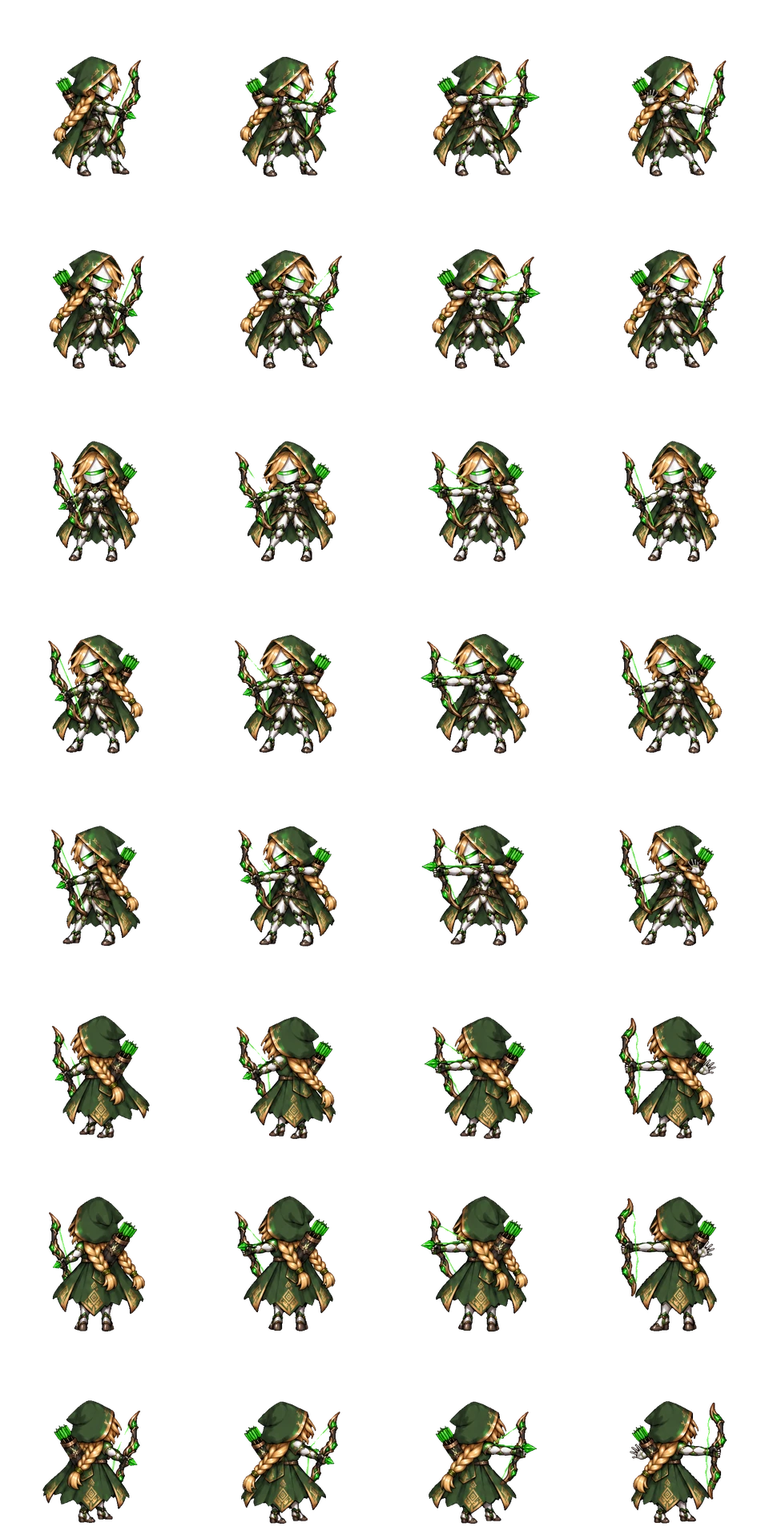
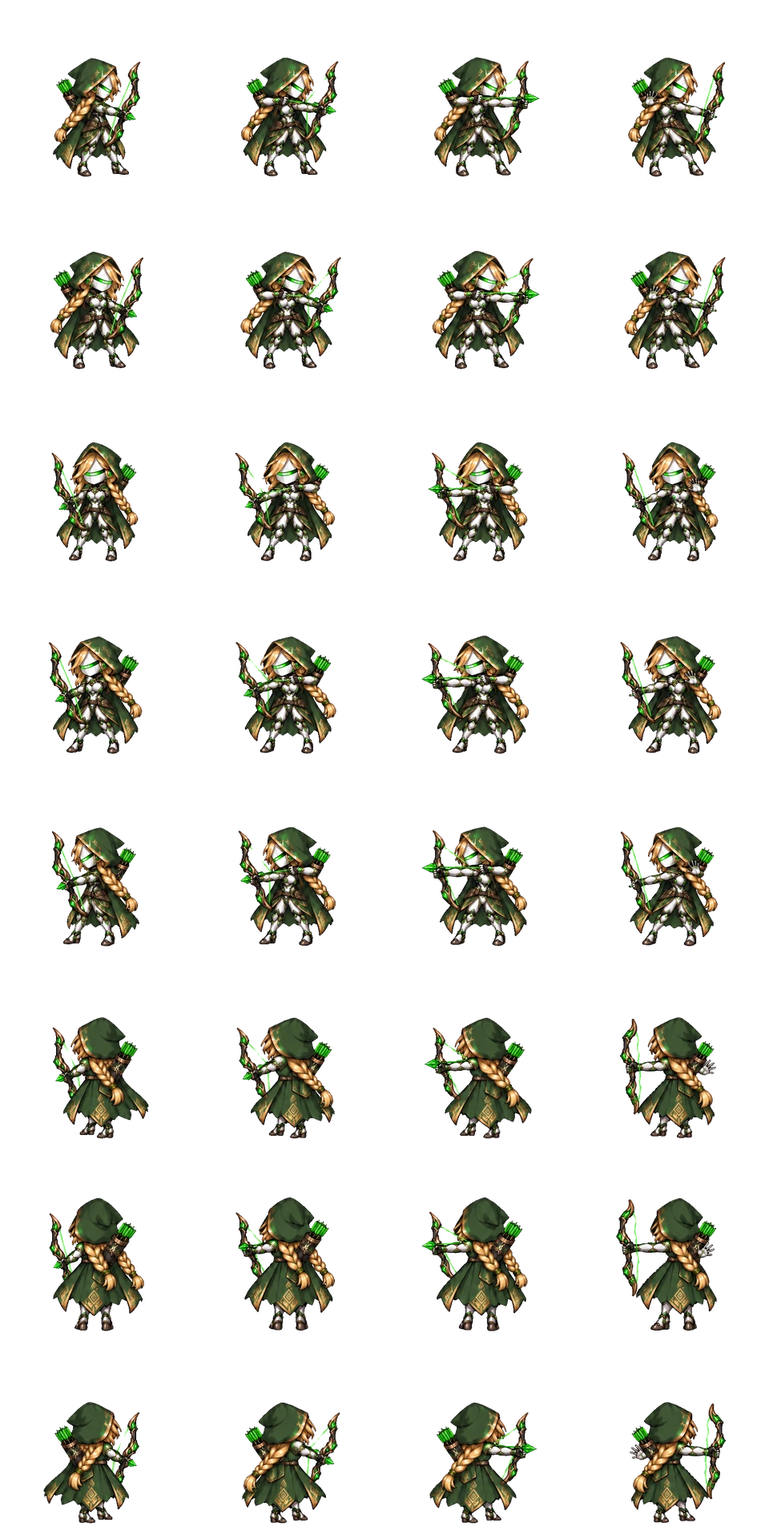
Wildhunter (m/f): armed walk; shoot re-installed at the new walk scale
With the armed walks in, Wildhunter drops the paperdoll and plays its shoot
sheet when attacking with the bow. All Class 1 characters now use armed
sheets; the paperdoll only remains for Novice hats.

Claude-Session: https://claude.ai/code/session_017QrEU6PVR1NvrPzc5r5uQv

diff --git a/js/paperdoll_data.js b/js/paperdoll_data.js
@@ -1,4 +1,4 @@
 'use strict';
 // สร้างอัตโนมัติโดย tools/paperdoll.py — อย่าแก้ด้วยมือ
 // hand[แถว][เฟรม] = [x, y, มุม(เรเดียน, ด้าม→ปลาย), (1 = ประมาณจากเฟรมข้างเคียง)] ในช่อง 240px, head = [x, ยอดหัว y]
-const PAPERDOLL_DATA = {"novice_f":{"idle":{"hand":[[[160.1,167.1,1.055],[160.5,167.4,1.072],[161.0,167.2,1.05],[160.0,167.2,1.031]],[[155.1,171.5,1.048],[157.6,171.2,1.059],[156.0,171.6,1.029],[154.0,171.4,1.167]],[[89.4,175.0,1.966],[86.8,175.0,1.975],[88.4,172.7,2.055],[87.8,175.1,1.952]],[[84.0,171.6,2.1],[81.6,171.3,2.09],[82.7,172.0,2.114],[85.1,171.5,1.983]],[[78.9,167.1,2.085],[78.4,167.3,2.062],[78.3,166.7,2.09],[78.7,167.6,2.109]],[[73.3,167.2,2.025],[71.0,164.5,2.016],[74.4,165.7,2.044],[73.4,166.1,2.009]],[[145.8,174.1,1.123],[143.5,173.3,1.156],[145.7,174.0,1.169],[144.3,173.8,1.147]],[[165.7,167.2,1.117],[167.9,164.5,1.124],[164.8,166.1,1.099],[165.7,166.1,1.138]]],"head":[[[134.5,67],[137.3,66],[134.7,67],[134.6,67]],[[126.1,66],[127.5,66],[127.5,66],[127.4,66]],[[119.4,71],[118.1,70],[118.0,71],[117.1,70]],[[112.7,66],[111.8,66],[111.7,66],[111.6,66]],[[104.5,67],[101.6,66],[104.3,67],[104.4,67]],[[105.4,68],[105.3,67],[106.5,68],[106.0,67]],[[120.1,68],[118.8,67],[120.4,68],[119.4,67]],[[133.5,68],[133.6,67],[132.4,68],[133.0,67]]]},"walk":{"hand":[[[174.0,158.3,0.669],[170.0,151.0,0.727],[171.0,158.1,0.732],[164.7,154.9,0.98]],[[169.2,158.8,0.81],[164.2,157.0,0.897],[164.3,158.9,0.879],[162.7,158.8,0.99]],[[78.7,161.1,2.17],[80.4,160.8,2.117],[80.2,163.7,2.135],[82.4,159.8,2.065]],[[69.8,158.8,2.332],[74.8,157.0,2.245],[74.8,159.0,2.273],[76.3,158.8,2.152]],[[65.0,158.2,2.463],[69.0,151.0,2.41],[68.0,158.1,2.41],[74.3,154.9,2.161]],[[63.4,150.1,2.227],[65.1,152.8,2.214],[68.7,150.9,2.167],[66.5,157.0,2.163]],[[145.7,165.0,1.034],[145.7,167.0,1.037],[146.7,166.1,1.064],[146.8,166.9,1.041]],[[175.6,150.1,0.913],[174.0,152.8,0.935],[173.0,155.7,0.94],[172.6,157.0,0.982]]],"head":[[[144.0,70],[142.0,70],[142.5,70],[142.5,69]],[[138.1,67],[135.5,67],[138.4,68],[135.8,67]],[[116.4,68],[115.0,68],[112.7,67],[113.7,69]],[[100.9,67],[103.5,67],[100.6,68],[103.2,67]],[[95.0,70],[97.0,70],[96.5,70],[96.5,69]],[[100.5,68],[101.8,70],[103.0,68],[105.2,71]],[[118.4,66],[118.8,67],[121.1,67],[117.7,67]],[[138.5,68],[137.2,70],[135.9,68],[133.8,71]]]},"attack":{"hand":[[[163.5,161.3,0.862],[113.5,83.6,-2.167],[156.2,158.0,0.736],null,[156.9,159.6,0.773,1],[157.7,161.2,0.809]],[[166.4,168.3,0.876],[165.3,90.8,-2.382],[161.9,164.2,1.022],null,[159.7,165.6,0.998,1],[157.4,167.1,0.974]],[[74.9,171.4,2.218],[85.0,96.3,-0.714],[123.7,161.7,0.44],null,[126.5,163.5,0.752],[126.5,163.5,0.752,1]],[[72.6,168.3,2.266],[73.7,90.8,-0.76],[77.2,164.3,2.13],null,[79.4,165.7,2.147,1],[81.6,167.1,2.164]],[[75.6,161.4,2.287],[125.5,83.6,-0.974],[82.8,158.0,2.406],null,[82.0,159.6,2.367,1],[81.2,161.2,2.328]],[[71.1,154.3,2.114],[144.5,78.8,-1.964],[73.8,143.7,2.328],null,[74.5,149.1,2.188,1],[75.3,154.6,2.049]],[[153.7,174.6,0.89],[84.0,73.1,-1.095],[134.9,167.9,1.05],null,[139.9,169.0,0.99,1],[144.9,170.1,0.929]],[[167.9,154.3,1.027],[94.9,78.0,-1.177],[165.1,143.8,0.807],null,[164.4,149.2,0.952,1],[163.8,154.6,1.097]]],"head":[[[138.7,70],[145.5,67],[147.1,83],[130.5,75],[142.1,72],[137.5,68]],[[135.1,72],[132.4,72],[130.5,80],[135.5,70],[133.9,74],[130.3,70]],[[118.9,73],[129.1,70],[112.8,83],[116.0,76],[108.8,77],[115.6,72]],[[103.9,72],[106.7,72],[108.5,80],[103.4,70],[105.1,74],[108.7,70]],[[100.3,70],[93.5,67],[91.9,83],[108.5,75],[96.9,72],[101.5,68]],[[105.7,65],[106.0,63],[100.8,66],[106.7,65],[106.0,66],[110.7,63]],[[120.6,62],[111.4,59],[115.2,63],[112.1,64],[109.9,63],[116.5,59]],[[133.3,65],[132.9,63],[138.2,66],[132.3,65],[134.1,66],[128.3,63]]]},"cast":{"hand":[[[167.9,165.7,0.888],[168.8,163.1,0.9],[171.8,163.9,0.909],[174.3,164.5,0.907]],[[163.2,171.4,0.9],[164.0,174.4,0.959],[166.9,170.9,0.895],[168.7,171.2,0.943]],[[80.0,174.3,2.167],[79.4,173.3,2.155],[74.6,175.8,2.177],[74.3,171.9,2.161]],[[75.8,171.4,2.241],[75.0,174.4,2.183],[72.5,170.4,2.246],[70.3,171.2,2.201]],[[71.0,165.6,2.25],[70.2,163.1,2.243],[66.9,164.5,2.238],[64.7,164.5,2.235]],[[68.4,153.3,2.112],[65.0,153.3,2.14],[65.6,154.3,2.093],[65.6,154.3,2.093,1]],[[144.0,168.5,1.091],[145.9,169.7,1.017],[144.7,171.1,1.066],[144.7,171.1,1.066,1]],[[170.6,153.3,1.028],[174.0,153.3,1.002],[173.4,154.3,1.048],[173.4,154.3,1.048,1]]],"head":[[[137.2,67],[142.5,66],[143.8,68],[159.6,71]],[[128.7,68],[129.5,69],[135.4,68],[146.6,68]],[[119.3,71],[111.6,71],[107.5,72],[98.7,71]],[[110.3,68],[109.5,69],[103.7,68],[92.5,68]],[[101.8,67],[96.5,66],[95.2,68],[79.3,71]],[[107.1,59],[102.9,58],[102.5,59],[92.2,59]],[[116.3,52],[117.0,53],[111.1,53],[113.6,64]],[[131.8,59],[136.1,58],[136.5,59],[146.8,59]]]},"sit":{"hand":[[[171.7,199.2,0.52],[171.0,197.7,0.525]],[[163.1,200.2,0.674],[160.3,201.0,0.614]],[[83.2,202.3,2.665],[82.3,204.9,2.73]],[[75.9,200.2,2.467],[78.7,200.9,2.525]],[[67.2,199.1,2.618],[68.0,197.7,2.618]],[[66.9,198.1,2.386],[65.9,197.8,2.404]],[[160.9,200.9,0.678],[160.8,200.0,0.717]],[[171.7,197.4,0.772],[172.3,196.8,0.751]]],"head":[[[129.6,104],[129.9,101]],[[124.0,98],[122.7,98]],[[119.8,110],[121.2,110]],[[115.1,98],[116.3,98]],[[109.5,104],[109.1,101]],[[108.7,98],[111.2,97]],[[120.0,90],[118.0,89]],[[130.3,98],[127.9,97]]]},"hurt":{"hand":[[[150.8,146.2,0.136],[156.9,168.8,0.954]],[[160.7,147.6,0.41],[158.5,170.3,1.017]],[[73.5,148.9,2.611],[85.9,169.5,2.107]],[[78.3,147.6,2.732],[80.6,170.4,2.129]],[[88.2,146.3,3.012],[82.1,168.8,2.188]],[[75.9,147.9,2.916],[73.5,165.9,2.113]],[[149.5,174.4,0.88,1],[149.5,174.4,0.88]],[[163.1,147.8,0.231],[165.7,166.4,1.026]]],"head":[[[98.1,104],[137.1,71]],[[101.0,103],[126.3,65]],[[132.0,103],[118.3,64]],[[137.8,103],[112.7,65]],[[140.9,104],[101.9,71]],[[134.9,98],[108.6,71]],[[133.7,88],[118.9,62]],[[104.1,98],[130.4,71]]]},"dead":{"hand":[[[154.6,167.1,0.884],[160.9,209.5,0.331],[131.5,190.7,0.59],null],[[158.8,172.5,0.723],[157.3,202.4,0.617],[145.4,210.6,0.311],null],[[80.3,179.5,2.435],[82.3,207.1,2.428],[104.5,186.2,2.553],null],[[80.2,172.5,2.415],[81.7,202.4,2.527],[93.5,210.6,2.83],null],[[84.4,167.1,2.257],[78.2,209.6,2.817],[107.4,190.6,2.55],null],[[69.5,163.6,2.412],[64.0,189.9,2.396],[67.0,200.1,2.855],[67.6,198.9,2.817]],[[152.8,180.3,0.864],[162.4,175.4,0.713],[73.0,197.6,2.765],[74.9,197.6,2.793]],[[169.6,163.6,0.736],[175.0,189.9,0.738],[170.2,199.7,0.286],[171.4,198.9,0.327]]],"head":[[[143.4,76],[146.1,110],[123.8,143],[126.4,144]],[[137.2,80],[140.5,107],[119.8,141],[122.4,140]],[[113.0,80],[105.7,118],[112.8,144],[112.7,145]],[[101.8,80],[98.5,107],[119.2,141],[116.5,140]],[[95.6,76],[92.9,110],[115.3,143],[112.7,144]],[[99.6,67],[95.5,94],[116.2,128],[115.2,128]],[[117.3,62],[113.6,79],[101.7,123],[103.4,123]],[[139.4,67],[143.5,94],[122.7,128],[123.8,128]]]}},"novice_m":{"idle":{"hand":[[[144.0,179.3,0.661],[145.6,177.9,0.652],[144.9,178.4,0.671],[145.0,178.4,0.643]],[[150.7,181.3,0.876],[152.3,181.3,0.893],[152.1,180.8,0.868],[151.0,180.8,0.869]],[[86.8,177.9,2.079],[86.0,178.4,2.097],[86.1,178.7,2.102],[87.6,180.5,2.094]],[[88.3,181.4,2.272],[87.0,180.8,2.242],[86.9,180.7,2.268],[88.0,180.8,2.271]],[[95.1,179.4,2.483],[93.4,177.8,2.486],[94.1,178.3,2.466],[94.0,178.3,2.496]],[[155.9,179.7,0.979],[155.0,178.4,0.977],[155.2,179.5,1.005],[156.2,179.2,0.973]],[[157.9,172.5,1.122],[156.6,171.6,1.134],[156.1,171.4,1.092],[155.8,171.6,1.118]],[[83.1,179.7,2.163],[84.1,178.4,2.163],[83.8,179.5,2.137],[82.8,179.2,2.168]]],"head":[[[117.3,65],[118.3,65],[118.9,66],[117.5,65]],[[118.4,72],[119.3,71],[118.9,71],[118.6,71]],[[122.3,66],[121.6,67],[122.9,67],[121.9,68]],[[120.6,72],[119.7,71],[120.1,71],[120.4,71]],[[121.7,65],[120.7,65],[120.1,66],[121.5,65]],[[119.7,67],[119.4,67],[120.3,67],[119.5,67]],[[121.2,61],[121.1,61],[121.2,61],[121.2,61]],[[119.3,67],[119.6,67],[118.7,67],[119.5,67]]]},"walk":{"hand":[[[159.9,170.7,0.589],[155.1,164.3,0.589],[162.1,168.9,0.585],[158.2,166.1,0.63]],[[163.0,171.8,0.721],[156.1,167.0,0.739],[162.9,172.3,0.696],[151.5,171.5,0.776]],[[76.7,175.8,2.195],[83.8,174.4,2.048],[70.4,174.5,2.367],[83.8,174.9,2.072]],[[76.2,171.4,2.412],[82.9,166.9,2.4],[76.2,172.2,2.445],[87.5,171.5,2.366]],[[79.3,170.5,2.552],[83.9,164.4,2.558],[76.9,168.9,2.558],[80.8,166.0,2.507]],[[165.3,170.7,0.832],[162.9,170.8,0.965],[165.8,169.9,0.935],[163.8,170.2,0.876]],[[162.7,168.0,0.909],[160.2,169.2,1.002],[163.2,167.8,0.873],[162.2,168.2,1.009]],[[73.7,170.7,2.309],[76.1,170.8,2.177],[73.2,169.9,2.207],[75.3,170.3,2.268]]],"head":[[[123.8,64],[121.9,63],[121.2,64],[121.0,63]],[[122.3,68],[122.2,66],[121.9,68],[122.0,67]],[[120.3,68],[120.1,68],[121.0,69],[121.5,68]],[[116.7,68],[116.8,66],[117.1,68],[117.0,67]],[[115.2,64],[117.1,63],[117.8,64],[118.0,63]],[[116.3,69],[117.5,70],[115.5,68],[115.9,69]],[[119.9,66],[121.1,67],[121.8,67],[120.5,66]],[[122.7,69],[121.5,70],[123.5,68],[123.1,69]]]},"attack":{"hand":[[[144.1,182.9,0.798],[173.4,114.2,0.479],[178.7,152.7,0.644],[185.8,133.6,0.044],[75.6,149.5,2.896],[145.1,182.9,0.791]],[[154.5,179.5,0.773],[177.6,107.1,0.364],[177.5,114.0,0.239],[188.6,139.4,0.124],[91.5,161.1,2.7],[152.6,180.3,0.912]],[[83.9,179.5,2.083],[66.0,120.7,2.615],[62.7,139.6,2.565],[56.2,140.9,3.066],[155.0,160.9,0.467],[85.3,179.8,2.083]],[[84.5,179.5,2.371],[61.4,107.0,2.771],[61.5,114.0,2.902],[50.4,139.4,3.017],[147.5,161.1,0.44],[86.4,180.3,2.23]],[[94.9,182.9,2.343],[65.6,114.1,2.659],[60.3,152.8,2.502],[53.2,133.5,3.093],[163.4,149.5,0.248],[93.9,182.9,2.35]],[[153.9,179.8,0.939],[67.6,143.3,2.258],[126.8,146.2,1.143,1],[185.9,149.0,0.028],[169.1,156.6,0.435],[156.4,180.7,0.985]],[[159.0,175.1,1.072],[58.9,109.2,2.526],[121.7,121.9,1.329,1],[184.5,134.7,0.133],[168.1,148.9,0.775],[157.6,174.7,1.13]],[[85.1,179.8,2.202],[171.4,143.3,0.882],[112.2,146.2,1.998,1],[53.1,149.1,3.115],[69.9,156.6,2.707],[82.6,180.7,2.158]]],"head":[[[118.8,67],[117.1,69],[114.6,72],[111.9,66],[122.9,70],[117.1,67]],[[121.5,71],[123.4,69],[123.5,70],[112.0,69],[113.8,70],[119.4,69]],[[122.3,66],[130.2,67],[134.6,69],[127.2,71],[128.2,70],[121.9,66]],[[117.5,71],[115.6,69],[115.5,70],[127.0,69],[125.2,70],[119.6,69]],[[120.2,67],[121.9,69],[124.4,72],[127.1,66],[116.1,70],[121.9,67]],[[121.6,74],[133.2,75],[136.5,74],[122.4,74],[117.9,73],[122.1,73]],[[121.3,63],[123.0,64],[117.8,60],[118.6,66],[113.9,63],[121.7,63]],[[117.4,74],[105.8,75],[102.5,74],[116.6,74],[121.1,73],[116.9,73]]]},"cast":{"hand":[[[145.0,181.0,0.763],[143.8,143.1,0.909],[163.8,179.1,0.759],[160.0,179.9,0.762]],[[154.6,177.4,0.807],[134.4,141.5,0.65],[169.0,177.0,0.766],[162.8,177.8,0.877]],[[82.2,179.5,2.101],[103.1,140.1,2.518],[68.6,178.6,2.34],[74.8,178.5,2.269]],[[84.5,177.5,2.338],[104.6,141.5,2.492],[70.1,177.0,2.376],[76.6,177.3,2.264]],[[94.0,181.0,2.378],[95.3,143.2,2.238],[75.2,179.1,2.382],[79.0,179.9,2.382]],[[155.7,179.6,0.963],[112.1,179.9,1.604,1],[68.6,180.2,2.246],[69.5,181.6,2.241]],[[159.2,174.3,1.02],[112.5,174.7,1.613,1],[65.8,175.1,2.205],[69.6,175.9,2.196]],[[83.2,179.5,2.174],[126.9,180.1,1.534,1],[170.7,180.6,0.894],[169.5,181.6,0.9]]],"head":[[[117.1,65],[119.6,64],[127.5,66],[126.3,67]],[[119.4,67],[117.8,64],[124.6,66],[123.6,67]],[[121.4,66],[119.6,66],[116.8,67],[118.3,66]],[[119.6,67],[121.2,64],[114.4,66],[115.4,67]],[[121.9,65],[119.4,64],[111.5,66],[112.7,67]],[[120.8,71],[127.6,72],[119.8,74],[118.6,74]],[[121.1,64],[122.2,64],[115.8,64],[116.5,64]],[[118.2,71],[111.4,72],[119.2,74],[120.4,74]]]},"sit":{"hand":[[[156.6,190.9,0.502],[156.0,190.9,0.495]],[[165.6,192.8,0.667],[166.6,192.6,0.637]],[[76.4,191.6,2.544],[76.2,191.7,2.52]],[[73.4,192.8,2.474],[72.4,192.6,2.504]],[[82.1,191.0,2.639],[83.0,190.8,2.643]],[[77.2,195.6,2.489],[77.6,195.7,2.382]],[[169.2,199.2,0.669],[168.0,198.7,0.639]],[[161.9,195.7,0.651],[161.5,195.6,0.767]]],"head":[[[117.1,82],[116.2,82]],[[116.3,82],[115.8,82]],[[123.4,83],[122.6,83]],[[122.7,82],[123.2,82]],[[121.9,82],[122.8,82]],[[119.0,87],[120.0,86]],[[121.1,86],[119.5,86]],[[120.0,87],[119.0,86]]]},"hurt":{"hand":[[[180.6,166.8,0.684],[150.5,177.4,0.749]],[[184.9,154.8,0.575],[158.0,179.9,0.753]],[[60.1,155.4,2.473],[79.3,177.2,2.303]],[[54.2,154.8,2.567],[81.0,179.9,2.387]],[[58.4,166.7,2.457],[88.5,177.4,2.392]],[[62.4,175.2,2.396],[161.6,184.6,0.97]],[[176.5,158.8,0.699],[163.6,180.7,0.885]],[[176.1,174.8,0.744],[77.4,184.7,2.173]]],"head":[[[116.3,70],[117.8,70]],[[111.3,64],[119.2,71]],[[124.8,71],[121.9,64]],[[127.7,64],[119.8,71]],[[122.7,70],[121.2,70]],[[110.1,74],[117.4,76]],[[118.6,73],[119.2,72]],[[128.9,74],[121.6,76]]]},"dead":{"hand":[[[138.5,194.8,0.942],[164.2,197.3,0.333],[164.3,208.9,0.23],null],[[174.9,191.0,0.751],[168.4,198.1,0.387],[217.6,197.9,0.385],[217.7,197.8,0.405]],[[53.6,191.5,2.321],[64.7,200.9,2.844],[30.5,204.4,2.789],[30.3,204.2,2.785]],[[64.1,191.0,2.388],[70.6,198.1,2.756],[20.9,198.2,2.759],[21.4,197.9,2.75]],[[100.4,194.7,2.195],[74.8,197.3,2.81],[74.5,208.9,2.904],null],[[172.8,180.7,1.032],[74.3,205.5,2.603],null,null],[[63.9,183.5,2.139],[72.1,188.2,2.654],[197.2,168.6,0.375],[196.1,168.8,0.364]],[[66.1,180.7,2.105],[164.5,205.1,0.548],null,null]],"head":[[[112.7,80],[136.0,103],[147.0,147],[147.0,147]],[[134.0,83],[126.6,104],[139.5,147],[141.4,145]],[[112.8,74],[116.1,103],[109.7,149],[108.7,150]],[[105.0,83],[112.4,104],[99.5,147],[97.6,145]],[[126.3,80],[103.0,103],[92.0,147],[92.0,147]],[[121.4,78],[106.4,106],[88.3,143],[88.4,144]],[[118.7,67],[106.6,96],[112.6,111],[111.4,111]],[[117.6,78],[132.6,106],[150.7,143],[150.6,144]]]}},"wildhunter_f":{"walk":{"hand":[[[151.5,152.4,0.891],[153.7,153.9,1.001],[152.8,152.0,0.905],[153.1,153.9,0.984]],[[157.1,152.7,0.936],[155.4,152.4,0.953],[156.8,152.9,0.92],[155.0,153.7,0.956]],[[83.2,155.2,2.174],[83.9,149.2,2.174],[81.5,155.4,2.196],[85.0,152.4,2.14]],[[81.9,152.7,2.207],[83.5,152.4,2.186],[82.6,152.4,2.221],[84.0,153.7,2.186]],[[87.5,152.4,2.25],[85.3,153.8,2.139],[86.2,152.0,2.236],[85.9,153.9,2.157]],[[81.0,159.0,2.186],[83.1,157.7,2.143],[81.2,158.1,2.158],[84.6,156.4,2.123]],[[77.9,151.4,2.088],[82.4,156.2,2.124],[76.9,152.0,2.133],[84.0,155.0,2.118]],[[158.1,158.9,0.957],[155.9,157.7,0.995],[157.9,158.1,0.985],[154.5,156.3,1.023]]],"head":[[[131.0,62],[133.0,63],[131.7,62],[132.0,63]],[[125.8,66],[129.1,66],[126.4,65],[129.1,66]],[[115.9,67],[115.3,67],[114.9,67],[113.3,67]],[[113.2,66],[109.9,66],[112.6,65],[109.9,66]],[[108.0,62],[106.0,63],[107.3,62],[107.0,63]],[[111.4,69],[109.0,68],[111.9,68],[109.6,66]],[[117.4,63],[114.5,66],[119.0,63],[116.7,65]],[[127.6,69],[130.0,68],[127.1,68],[129.4,66]]]}},"wildhunter_m":{"walk":{"hand":[[[157.2,162.7,0.715],[157.4,156.6,0.679],[156.6,161.3,0.748],[153.5,160.5,0.752]],[[162.7,162.3,0.801],[160.4,160.6,0.815],[161.8,162.2,0.821],[157.5,163.4,0.845]],[[75.3,165.3,2.327],[78.6,164.5,2.3],[74.8,164.7,2.308],[80.9,165.8,2.319]],[[76.3,162.3,2.341],[78.6,160.6,2.328],[77.2,162.2,2.32],[81.4,163.4,2.294]],[[81.8,162.7,2.427],[81.6,156.6,2.463],[82.3,161.4,2.395],[85.5,160.6,2.391]],[[79.0,168.0,2.461],[84.5,156.6,2.522],[77.7,168.8,2.408],[84.1,164.2,2.392]],[[166.0,161.9,0.832],[164.4,163.5,0.82],[164.8,163.2,0.818],[162.7,164.1,0.845]],[[160.0,168.0,0.681],[154.6,156.6,0.622],[161.3,168.7,0.733],[154.9,164.2,0.749]]],"head":[[[133.3,67],[134.2,65],[133.8,67],[132.7,65]],[[129.9,65],[130.2,64],[132.2,65],[131.2,64]],[[114.6,64],[111.8,64],[112.4,63],[111.7,64]],[[109.1,65],[108.8,64],[106.8,65],[107.8,64]],[[105.7,67],[104.8,65],[105.2,67],[106.3,65]],[[106.5,70],[106.5,70],[105.3,69],[107.8,70]],[[127.4,66],[123.9,68],[126.5,67],[124.5,68]],[[132.5,70],[132.5,70],[133.7,69],[131.2,70]]]}}};
+const PAPERDOLL_DATA = {"novice_f":{"idle":{"hand":[[[160.1,167.1,1.055],[160.5,167.4,1.072],[161.0,167.2,1.05],[160.0,167.2,1.031]],[[155.1,171.5,1.048],[157.6,171.2,1.059],[156.0,171.6,1.029],[154.0,171.4,1.167]],[[89.4,175.0,1.966],[86.8,175.0,1.975],[88.4,172.7,2.055],[87.8,175.1,1.952]],[[84.0,171.6,2.1],[81.6,171.3,2.09],[82.7,172.0,2.114],[85.1,171.5,1.983]],[[78.9,167.1,2.085],[78.4,167.3,2.062],[78.3,166.7,2.09],[78.7,167.6,2.109]],[[73.3,167.2,2.025],[71.0,164.5,2.016],[74.4,165.7,2.044],[73.4,166.1,2.009]],[[145.8,174.1,1.123],[143.5,173.3,1.156],[145.7,174.0,1.169],[144.3,173.8,1.147]],[[165.7,167.2,1.117],[167.9,164.5,1.124],[164.8,166.1,1.099],[165.7,166.1,1.138]]],"head":[[[134.5,67],[137.3,66],[134.7,67],[134.6,67]],[[126.1,66],[127.5,66],[127.5,66],[127.4,66]],[[119.4,71],[118.1,70],[118.0,71],[117.1,70]],[[112.7,66],[111.8,66],[111.7,66],[111.6,66]],[[104.5,67],[101.6,66],[104.3,67],[104.4,67]],[[105.4,68],[105.3,67],[106.5,68],[106.0,67]],[[120.1,68],[118.8,67],[120.4,68],[119.4,67]],[[133.5,68],[133.6,67],[132.4,68],[133.0,67]]]},"walk":{"hand":[[[174.0,158.3,0.669],[170.0,151.0,0.727],[171.0,158.1,0.732],[164.7,154.9,0.98]],[[169.2,158.8,0.81],[164.2,157.0,0.897],[164.3,158.9,0.879],[162.7,158.8,0.99]],[[78.7,161.1,2.17],[80.4,160.8,2.117],[80.2,163.7,2.135],[82.4,159.8,2.065]],[[69.8,158.8,2.332],[74.8,157.0,2.245],[74.8,159.0,2.273],[76.3,158.8,2.152]],[[65.0,158.2,2.463],[69.0,151.0,2.41],[68.0,158.1,2.41],[74.3,154.9,2.161]],[[63.4,150.1,2.227],[65.1,152.8,2.214],[68.7,150.9,2.167],[66.5,157.0,2.163]],[[145.7,165.0,1.034],[145.7,167.0,1.037],[146.7,166.1,1.064],[146.8,166.9,1.041]],[[175.6,150.1,0.913],[174.0,152.8,0.935],[173.0,155.7,0.94],[172.6,157.0,0.982]]],"head":[[[144.0,70],[142.0,70],[142.5,70],[142.5,69]],[[138.1,67],[135.5,67],[138.4,68],[135.8,67]],[[116.4,68],[115.0,68],[112.7,67],[113.7,69]],[[100.9,67],[103.5,67],[100.6,68],[103.2,67]],[[95.0,70],[97.0,70],[96.5,70],[96.5,69]],[[100.5,68],[101.8,70],[103.0,68],[105.2,71]],[[118.4,66],[118.8,67],[121.1,67],[117.7,67]],[[138.5,68],[137.2,70],[135.9,68],[133.8,71]]]},"attack":{"hand":[[[163.5,161.3,0.862],[113.5,83.6,-2.167],[156.2,158.0,0.736],null,[156.9,159.6,0.773,1],[157.7,161.2,0.809]],[[166.4,168.3,0.876],[165.3,90.8,-2.382],[161.9,164.2,1.022],null,[159.7,165.6,0.998,1],[157.4,167.1,0.974]],[[74.9,171.4,2.218],[85.0,96.3,-0.714],[123.7,161.7,0.44],null,[126.5,163.5,0.752],[126.5,163.5,0.752,1]],[[72.6,168.3,2.266],[73.7,90.8,-0.76],[77.2,164.3,2.13],null,[79.4,165.7,2.147,1],[81.6,167.1,2.164]],[[75.6,161.4,2.287],[125.5,83.6,-0.974],[82.8,158.0,2.406],null,[82.0,159.6,2.367,1],[81.2,161.2,2.328]],[[71.1,154.3,2.114],[144.5,78.8,-1.964],[73.8,143.7,2.328],null,[74.5,149.1,2.188,1],[75.3,154.6,2.049]],[[153.7,174.6,0.89],[84.0,73.1,-1.095],[134.9,167.9,1.05],null,[139.9,169.0,0.99,1],[144.9,170.1,0.929]],[[167.9,154.3,1.027],[94.9,78.0,-1.177],[165.1,143.8,0.807],null,[164.4,149.2,0.952,1],[163.8,154.6,1.097]]],"head":[[[138.7,70],[145.5,67],[147.1,83],[130.5,75],[142.1,72],[137.5,68]],[[135.1,72],[132.4,72],[130.5,80],[135.5,70],[133.9,74],[130.3,70]],[[118.9,73],[129.1,70],[112.8,83],[116.0,76],[108.8,77],[115.6,72]],[[103.9,72],[106.7,72],[108.5,80],[103.4,70],[105.1,74],[108.7,70]],[[100.3,70],[93.5,67],[91.9,83],[108.5,75],[96.9,72],[101.5,68]],[[105.7,65],[106.0,63],[100.8,66],[106.7,65],[106.0,66],[110.7,63]],[[120.6,62],[111.4,59],[115.2,63],[112.1,64],[109.9,63],[116.5,59]],[[133.3,65],[132.9,63],[138.2,66],[132.3,65],[134.1,66],[128.3,63]]]},"cast":{"hand":[[[167.9,165.7,0.888],[168.8,163.1,0.9],[171.8,163.9,0.909],[174.3,164.5,0.907]],[[163.2,171.4,0.9],[164.0,174.4,0.959],[166.9,170.9,0.895],[168.7,171.2,0.943]],[[80.0,174.3,2.167],[79.4,173.3,2.155],[74.6,175.8,2.177],[74.3,171.9,2.161]],[[75.8,171.4,2.241],[75.0,174.4,2.183],[72.5,170.4,2.246],[70.3,171.2,2.201]],[[71.0,165.6,2.25],[70.2,163.1,2.243],[66.9,164.5,2.238],[64.7,164.5,2.235]],[[68.4,153.3,2.112],[65.0,153.3,2.14],[65.6,154.3,2.093],[65.6,154.3,2.093,1]],[[144.0,168.5,1.091],[145.9,169.7,1.017],[144.7,171.1,1.066],[144.7,171.1,1.066,1]],[[170.6,153.3,1.028],[174.0,153.3,1.002],[173.4,154.3,1.048],[173.4,154.3,1.048,1]]],"head":[[[137.2,67],[142.5,66],[143.8,68],[159.6,71]],[[128.7,68],[129.5,69],[135.4,68],[146.6,68]],[[119.3,71],[111.6,71],[107.5,72],[98.7,71]],[[110.3,68],[109.5,69],[103.7,68],[92.5,68]],[[101.8,67],[96.5,66],[95.2,68],[79.3,71]],[[107.1,59],[102.9,58],[102.5,59],[92.2,59]],[[116.3,52],[117.0,53],[111.1,53],[113.6,64]],[[131.8,59],[136.1,58],[136.5,59],[146.8,59]]]},"sit":{"hand":[[[171.7,199.2,0.52],[171.0,197.7,0.525]],[[163.1,200.2,0.674],[160.3,201.0,0.614]],[[83.2,202.3,2.665],[82.3,204.9,2.73]],[[75.9,200.2,2.467],[78.7,200.9,2.525]],[[67.2,199.1,2.618],[68.0,197.7,2.618]],[[66.9,198.1,2.386],[65.9,197.8,2.404]],[[160.9,200.9,0.678],[160.8,200.0,0.717]],[[171.7,197.4,0.772],[172.3,196.8,0.751]]],"head":[[[129.6,104],[129.9,101]],[[124.0,98],[122.7,98]],[[119.8,110],[121.2,110]],[[115.1,98],[116.3,98]],[[109.5,104],[109.1,101]],[[108.7,98],[111.2,97]],[[120.0,90],[118.0,89]],[[130.3,98],[127.9,97]]]},"hurt":{"hand":[[[150.8,146.2,0.136],[156.9,168.8,0.954]],[[160.7,147.6,0.41],[158.5,170.3,1.017]],[[73.5,148.9,2.611],[85.9,169.5,2.107]],[[78.3,147.6,2.732],[80.6,170.4,2.129]],[[88.2,146.3,3.012],[82.1,168.8,2.188]],[[75.9,147.9,2.916],[73.5,165.9,2.113]],[[149.5,174.4,0.88,1],[149.5,174.4,0.88]],[[163.1,147.8,0.231],[165.7,166.4,1.026]]],"head":[[[98.1,104],[137.1,71]],[[101.0,103],[126.3,65]],[[132.0,103],[118.3,64]],[[137.8,103],[112.7,65]],[[140.9,104],[101.9,71]],[[134.9,98],[108.6,71]],[[133.7,88],[118.9,62]],[[104.1,98],[130.4,71]]]},"dead":{"hand":[[[154.6,167.1,0.884],[160.9,209.5,0.331],[131.5,190.7,0.59],null],[[158.8,172.5,0.723],[157.3,202.4,0.617],[145.4,210.6,0.311],null],[[80.3,179.5,2.435],[82.3,207.1,2.428],[104.5,186.2,2.553],null],[[80.2,172.5,2.415],[81.7,202.4,2.527],[93.5,210.6,2.83],null],[[84.4,167.1,2.257],[78.2,209.6,2.817],[107.4,190.6,2.55],null],[[69.5,163.6,2.412],[64.0,189.9,2.396],[67.0,200.1,2.855],[67.6,198.9,2.817]],[[152.8,180.3,0.864],[162.4,175.4,0.713],[73.0,197.6,2.765],[74.9,197.6,2.793]],[[169.6,163.6,0.736],[175.0,189.9,0.738],[170.2,199.7,0.286],[171.4,198.9,0.327]]],"head":[[[143.4,76],[146.1,110],[123.8,143],[126.4,144]],[[137.2,80],[140.5,107],[119.8,141],[122.4,140]],[[113.0,80],[105.7,118],[112.8,144],[112.7,145]],[[101.8,80],[98.5,107],[119.2,141],[116.5,140]],[[95.6,76],[92.9,110],[115.3,143],[112.7,144]],[[99.6,67],[95.5,94],[116.2,128],[115.2,128]],[[117.3,62],[113.6,79],[101.7,123],[103.4,123]],[[139.4,67],[143.5,94],[122.7,128],[123.8,128]]]}},"novice_m":{"idle":{"hand":[[[144.0,179.3,0.661],[145.6,177.9,0.652],[144.9,178.4,0.671],[145.0,178.4,0.643]],[[150.7,181.3,0.876],[152.3,181.3,0.893],[152.1,180.8,0.868],[151.0,180.8,0.869]],[[86.8,177.9,2.079],[86.0,178.4,2.097],[86.1,178.7,2.102],[87.6,180.5,2.094]],[[88.3,181.4,2.272],[87.0,180.8,2.242],[86.9,180.7,2.268],[88.0,180.8,2.271]],[[95.1,179.4,2.483],[93.4,177.8,2.486],[94.1,178.3,2.466],[94.0,178.3,2.496]],[[155.9,179.7,0.979],[155.0,178.4,0.977],[155.2,179.5,1.005],[156.2,179.2,0.973]],[[157.9,172.5,1.122],[156.6,171.6,1.134],[156.1,171.4,1.092],[155.8,171.6,1.118]],[[83.1,179.7,2.163],[84.1,178.4,2.163],[83.8,179.5,2.137],[82.8,179.2,2.168]]],"head":[[[117.3,65],[118.3,65],[118.9,66],[117.5,65]],[[118.4,72],[119.3,71],[118.9,71],[118.6,71]],[[122.3,66],[121.6,67],[122.9,67],[121.9,68]],[[120.6,72],[119.7,71],[120.1,71],[120.4,71]],[[121.7,65],[120.7,65],[120.1,66],[121.5,65]],[[119.7,67],[119.4,67],[120.3,67],[119.5,67]],[[121.2,61],[121.1,61],[121.2,61],[121.2,61]],[[119.3,67],[119.6,67],[118.7,67],[119.5,67]]]},"walk":{"hand":[[[159.9,170.7,0.589],[155.1,164.3,0.589],[162.1,168.9,0.585],[158.2,166.1,0.63]],[[163.0,171.8,0.721],[156.1,167.0,0.739],[162.9,172.3,0.696],[151.5,171.5,0.776]],[[76.7,175.8,2.195],[83.8,174.4,2.048],[70.4,174.5,2.367],[83.8,174.9,2.072]],[[76.2,171.4,2.412],[82.9,166.9,2.4],[76.2,172.2,2.445],[87.5,171.5,2.366]],[[79.3,170.5,2.552],[83.9,164.4,2.558],[76.9,168.9,2.558],[80.8,166.0,2.507]],[[165.3,170.7,0.832],[162.9,170.8,0.965],[165.8,169.9,0.935],[163.8,170.2,0.876]],[[162.7,168.0,0.909],[160.2,169.2,1.002],[163.2,167.8,0.873],[162.2,168.2,1.009]],[[73.7,170.7,2.309],[76.1,170.8,2.177],[73.2,169.9,2.207],[75.3,170.3,2.268]]],"head":[[[123.8,64],[121.9,63],[121.2,64],[121.0,63]],[[122.3,68],[122.2,66],[121.9,68],[122.0,67]],[[120.3,68],[120.1,68],[121.0,69],[121.5,68]],[[116.7,68],[116.8,66],[117.1,68],[117.0,67]],[[115.2,64],[117.1,63],[117.8,64],[118.0,63]],[[116.3,69],[117.5,70],[115.5,68],[115.9,69]],[[119.9,66],[121.1,67],[121.8,67],[120.5,66]],[[122.7,69],[121.5,70],[123.5,68],[123.1,69]]]},"attack":{"hand":[[[144.1,182.9,0.798],[173.4,114.2,0.479],[178.7,152.7,0.644],[185.8,133.6,0.044],[75.6,149.5,2.896],[145.1,182.9,0.791]],[[154.5,179.5,0.773],[177.6,107.1,0.364],[177.5,114.0,0.239],[188.6,139.4,0.124],[91.5,161.1,2.7],[152.6,180.3,0.912]],[[83.9,179.5,2.083],[66.0,120.7,2.615],[62.7,139.6,2.565],[56.2,140.9,3.066],[155.0,160.9,0.467],[85.3,179.8,2.083]],[[84.5,179.5,2.371],[61.4,107.0,2.771],[61.5,114.0,2.902],[50.4,139.4,3.017],[147.5,161.1,0.44],[86.4,180.3,2.23]],[[94.9,182.9,2.343],[65.6,114.1,2.659],[60.3,152.8,2.502],[53.2,133.5,3.093],[163.4,149.5,0.248],[93.9,182.9,2.35]],[[153.9,179.8,0.939],[67.6,143.3,2.258],[126.8,146.2,1.143,1],[185.9,149.0,0.028],[169.1,156.6,0.435],[156.4,180.7,0.985]],[[159.0,175.1,1.072],[58.9,109.2,2.526],[121.7,121.9,1.329,1],[184.5,134.7,0.133],[168.1,148.9,0.775],[157.6,174.7,1.13]],[[85.1,179.8,2.202],[171.4,143.3,0.882],[112.2,146.2,1.998,1],[53.1,149.1,3.115],[69.9,156.6,2.707],[82.6,180.7,2.158]]],"head":[[[118.8,67],[117.1,69],[114.6,72],[111.9,66],[122.9,70],[117.1,67]],[[121.5,71],[123.4,69],[123.5,70],[112.0,69],[113.8,70],[119.4,69]],[[122.3,66],[130.2,67],[134.6,69],[127.2,71],[128.2,70],[121.9,66]],[[117.5,71],[115.6,69],[115.5,70],[127.0,69],[125.2,70],[119.6,69]],[[120.2,67],[121.9,69],[124.4,72],[127.1,66],[116.1,70],[121.9,67]],[[121.6,74],[133.2,75],[136.5,74],[122.4,74],[117.9,73],[122.1,73]],[[121.3,63],[123.0,64],[117.8,60],[118.6,66],[113.9,63],[121.7,63]],[[117.4,74],[105.8,75],[102.5,74],[116.6,74],[121.1,73],[116.9,73]]]},"cast":{"hand":[[[145.0,181.0,0.763],[143.8,143.1,0.909],[163.8,179.1,0.759],[160.0,179.9,0.762]],[[154.6,177.4,0.807],[134.4,141.5,0.65],[169.0,177.0,0.766],[162.8,177.8,0.877]],[[82.2,179.5,2.101],[103.1,140.1,2.518],[68.6,178.6,2.34],[74.8,178.5,2.269]],[[84.5,177.5,2.338],[104.6,141.5,2.492],[70.1,177.0,2.376],[76.6,177.3,2.264]],[[94.0,181.0,2.378],[95.3,143.2,2.238],[75.2,179.1,2.382],[79.0,179.9,2.382]],[[155.7,179.6,0.963],[112.1,179.9,1.604,1],[68.6,180.2,2.246],[69.5,181.6,2.241]],[[159.2,174.3,1.02],[112.5,174.7,1.613,1],[65.8,175.1,2.205],[69.6,175.9,2.196]],[[83.2,179.5,2.174],[126.9,180.1,1.534,1],[170.7,180.6,0.894],[169.5,181.6,0.9]]],"head":[[[117.1,65],[119.6,64],[127.5,66],[126.3,67]],[[119.4,67],[117.8,64],[124.6,66],[123.6,67]],[[121.4,66],[119.6,66],[116.8,67],[118.3,66]],[[119.6,67],[121.2,64],[114.4,66],[115.4,67]],[[121.9,65],[119.4,64],[111.5,66],[112.7,67]],[[120.8,71],[127.6,72],[119.8,74],[118.6,74]],[[121.1,64],[122.2,64],[115.8,64],[116.5,64]],[[118.2,71],[111.4,72],[119.2,74],[120.4,74]]]},"sit":{"hand":[[[156.6,190.9,0.502],[156.0,190.9,0.495]],[[165.6,192.8,0.667],[166.6,192.6,0.637]],[[76.4,191.6,2.544],[76.2,191.7,2.52]],[[73.4,192.8,2.474],[72.4,192.6,2.504]],[[82.1,191.0,2.639],[83.0,190.8,2.643]],[[77.2,195.6,2.489],[77.6,195.7,2.382]],[[169.2,199.2,0.669],[168.0,198.7,0.639]],[[161.9,195.7,0.651],[161.5,195.6,0.767]]],"head":[[[117.1,82],[116.2,82]],[[116.3,82],[115.8,82]],[[123.4,83],[122.6,83]],[[122.7,82],[123.2,82]],[[121.9,82],[122.8,82]],[[119.0,87],[120.0,86]],[[121.1,86],[119.5,86]],[[120.0,87],[119.0,86]]]},"hurt":{"hand":[[[180.6,166.8,0.684],[150.5,177.4,0.749]],[[184.9,154.8,0.575],[158.0,179.9,0.753]],[[60.1,155.4,2.473],[79.3,177.2,2.303]],[[54.2,154.8,2.567],[81.0,179.9,2.387]],[[58.4,166.7,2.457],[88.5,177.4,2.392]],[[62.4,175.2,2.396],[161.6,184.6,0.97]],[[176.5,158.8,0.699],[163.6,180.7,0.885]],[[176.1,174.8,0.744],[77.4,184.7,2.173]]],"head":[[[116.3,70],[117.8,70]],[[111.3,64],[119.2,71]],[[124.8,71],[121.9,64]],[[127.7,64],[119.8,71]],[[122.7,70],[121.2,70]],[[110.1,74],[117.4,76]],[[118.6,73],[119.2,72]],[[128.9,74],[121.6,76]]]},"dead":{"hand":[[[138.5,194.8,0.942],[164.2,197.3,0.333],[164.3,208.9,0.23],null],[[174.9,191.0,0.751],[168.4,198.1,0.387],[217.6,197.9,0.385],[217.7,197.8,0.405]],[[53.6,191.5,2.321],[64.7,200.9,2.844],[30.5,204.4,2.789],[30.3,204.2,2.785]],[[64.1,191.0,2.388],[70.6,198.1,2.756],[20.9,198.2,2.759],[21.4,197.9,2.75]],[[100.4,194.7,2.195],[74.8,197.3,2.81],[74.5,208.9,2.904],null],[[172.8,180.7,1.032],[74.3,205.5,2.603],null,null],[[63.9,183.5,2.139],[72.1,188.2,2.654],[197.2,168.6,0.375],[196.1,168.8,0.364]],[[66.1,180.7,2.105],[164.5,205.1,0.548],null,null]],"head":[[[112.7,80],[136.0,103],[147.0,147],[147.0,147]],[[134.0,83],[126.6,104],[139.5,147],[141.4,145]],[[112.8,74],[116.1,103],[109.7,149],[108.7,150]],[[105.0,83],[112.4,104],[99.5,147],[97.6,145]],[[126.3,80],[103.0,103],[92.0,147],[92.0,147]],[[121.4,78],[106.4,106],[88.3,143],[88.4,144]],[[118.7,67],[106.6,96],[112.6,111],[111.4,111]],[[117.6,78],[132.6,106],[150.7,143],[150.6,144]]]}}};

diff --git a/index.html b/index.html
@@ -13,8 +13,8 @@
   <meta name="description" content="IRON VALHALLA — เกม RPG หุ่นยนต์แอนดรอยด์ในโลกตำนานนอร์ส เล่นบนเบราว์เซอร์">
   <link rel="preconnect" href="https://fonts.googleapis.com">
   <link href="https://fonts.googleapis.com/css2?family=Kanit:wght@400;500;600;700;800&family=Noto+Sans+Thai:wght@400;500;600;700&family=IBM+Plex+Sans+Thai:wght@400;500;600&family=IBM+Plex+Mono:wght@500;600&display=swap" rel="stylesheet">
-  <link rel="stylesheet" href="css/style.css?v=202610020758">
-  <link rel="stylesheet" href="css/visor.css?v=202610020758">
+  <link rel="stylesheet" href="css/style.css?v=202610020927">
+  <link rel="stylesheet" href="css/visor.css?v=202610020927">
 </head>
 <body class="visor">
   <canvas id="cv"></canvas>
@@ -284,48 +284,48 @@
   </div>
 
   <script src="https://cdn.jsdelivr.net/npm/@supabase/supabase-js@2.45.4/dist/umd/supabase.min.js"></script>
-  <script src="js/i18n.js?v=202610020758"></script>
-  <script src="js/online.config.js?v=202610020758"></script>
-  <script src="js/data.js?v=202610020758"></script>
-  <script src="js/art.js?v=202610020758"></script>
-  <script src="js/util.js?v=202610020758"></script>
-  <script src="js/maps.js?v=202610020758"></script>
-  <script src="js/flora.js?v=202610020758"></script>
-  <script src="js/sprites.js?v=202610020758"></script>
-  <script src="js/rig.js?v=202610020758"></script>
-  <script src="js/pose.js?v=202610020758"></script>
-  <script src="js/anim.js?v=202610020758"></script>
-  <script src="js/paperdoll_data.js?v=202610020758"></script>
-  <script src="js/paperdoll_fix.js?v=202610020758"></script>
-  <script src="js/paperdoll_depth.js?v=202610020758"></script>
-  <script src="js/paperdoll.js?v=202610020758"></script>
-  <script src="js/weapontrail.js?v=202610020758"></script>
-  <script src="js/sound.js?v=202610020758"></script>
-  <script src="js/music.js?v=202610020758"></script>
-  <script src="js/title.js?v=202610020758"></script>
-  <script src="js/passive.js?v=202610020758"></script>
-  <script src="js/game.js?v=202610020758"></script>
-  <script src="js/npc.js?v=202610020758"></script>
-  <script src="js/bot.js?v=202610020758"></script>
-  <script src="js/online.js?v=202610020758"></script>
-  <script src="js/party.js?v=202610020758"></script>
-  <script src="js/trade.js?v=202610020758"></script>
-  <script src="js/fx2.js?v=202610020758"></script>
-  <script src="js/juice.js?v=202610020758"></script>
-  <script src="js/render.js?v=202610020758"></script>
-  <script src="js/ui.js?v=202610020758"></script>
-  <script src="js/pad.js?v=202610020758"></script>
-  <script src="js/nav.js?v=202610020758"></script>
-  <script src="js/quest.js?v=202610020758"></script>
-  <script src="js/daily.js?v=202610020758"></script>
-  <script src="js/story.js?v=202610020758"></script>
-  <script src="js/content_ch6.js?v=202610020758"></script>
-  <script src="js/loot.js?v=202610020758"></script>
-  <script src="js/balance.js?v=202610020758"></script>
-  <script src="js/worldboss.js?v=202610020758"></script>
-  <script src="js/classbook.js?v=202610020758"></script>
-  <script src="js/gacha.js?v=202610020758"></script>
-  <script src="js/emote.js?v=202610020758"></script>
-  <script src="js/main.js?v=202610020758"></script>
+  <script src="js/i18n.js?v=202610020927"></script>
+  <script src="js/online.config.js?v=202610020927"></script>
+  <script src="js/data.js?v=202610020927"></script>
+  <script src="js/art.js?v=202610020927"></script>
+  <script src="js/util.js?v=202610020927"></script>
+  <script src="js/maps.js?v=202610020927"></script>
+  <script src="js/flora.js?v=202610020927"></script>
+  <script src="js/sprites.js?v=202610020927"></script>
+  <script src="js/rig.js?v=202610020927"></script>
+  <script src="js/pose.js?v=202610020927"></script>
+  <script src="js/anim.js?v=202610020927"></script>
+  <script src="js/paperdoll_data.js?v=202610020927"></script>
+  <script src="js/paperdoll_fix.js?v=202610020927"></script>
+  <script src="js/paperdoll_depth.js?v=202610020927"></script>
+  <script src="js/paperdoll.js?v=202610020927"></script>
+  <script src="js/weapontrail.js?v=202610020927"></script>
+  <script src="js/sound.js?v=202610020927"></script>
+  <script src="js/music.js?v=202610020927"></script>
+  <script src="js/title.js?v=202610020927"></script>
+  <script src="js/passive.js?v=202610020927"></script>
+  <script src="js/game.js?v=202610020927"></script>
+  <script src="js/npc.js?v=202610020927"></script>
+  <script src="js/bot.js?v=202610020927"></script>
+  <script src="js/online.js?v=202610020927"></script>
+  <script src="js/party.js?v=202610020927"></script>
+  <script src="js/trade.js?v=202610020927"></script>
+  <script src="js/fx2.js?v=202610020927"></script>
+  <script src="js/juice.js?v=202610020927"></script>
+  <script src="js/render.js?v=202610020927"></script>
+  <script src="js/ui.js?v=202610020927"></script>
+  <script src="js/pad.js?v=202610020927"></script>
+  <script src="js/nav.js?v=202610020927"></script>
+  <script src="js/quest.js?v=202610020927"></script>
+  <script src="js/daily.js?v=202610020927"></script>
+  <script src="js/story.js?v=202610020927"></script>
+  <script src="js/content_ch6.js?v=202610020927"></script>
+  <script src="js/loot.js?v=202610020927"></script>
+  <script src="js/balance.js?v=202610020927"></script>
+  <script src="js/worldboss.js?v=202610020927"></script>
+  <script src="js/classbook.js?v=202610020927"></script>
+  <script src="js/gacha.js?v=202610020927"></script>
+  <script src="js/emote.js?v=202610020927"></script>
+  <script src="js/main.js?v=202610020927"></script>
 </body>
 </html>

diff --git a/js/paperdoll_depth.js b/js/paperdoll_depth.js
@@ -2,4 +2,4 @@
 // สร้างอัตโนมัติโดย tools/paperdoll_depth.py — อย่าแก้ด้วยมือ (แก้รายเฟรมใช้ช่องที่ 4 ใน js/paperdoll_fix.js แทน)
 // PAPERDOLL_DEPTH[ตัวละคร][ท่า][แถว*64+เฟรม] = [s0, s1] ช่วงระยะตามแนวแท่งมาร์กเกอร์จากจุดมือ (px, ไปทางปลาย = บวก) ที่อาวุธอยู่ "หน้าตัว"
 //   นอกช่วงอยู่หลังตัว • [-999,999] = ทั้งชิ้นหน้าตัว • [0,0] = ทั้งชิ้นหลังตัว • [-999,23] = เลยมือไป 23px มุดหลังขา/เสื้อคลุม
-const PAPERDOLL_DEPTH = {"wildhunter_f":{"walk":{"0":[-999,999],"1":[-999,999],"2":[-999,999],"3":[-999,999],"64":[-999,999],"65":[-999,999],"66":[-999,999],"67":[-999,999],"128":[-999,999],"129":[-999,999],"130":[-999,999],"131":[-999,999],"192":[-999,999],"193":[-999,999],"194":[-999,999],"195":[-999,999],"256":[-999,999],"257":[-999,999],"258":[-999,999],"259":[-999,999],"320":[0,0],"321":[0,0],"322":[0,0],"323":[0,0],"384":[0,0],"385":[-999,999],"386":[0,0],"387":[0,0],"448":[0,0],"449":[0,0],"450":[0,0],"451":[0,0]}},"wildhunter_m":{"walk":{"0":[-999,999],"1":[-999,999],"2":[-999,999],"3":[-999,999],"64":[-999,999],"65":[-999,999],"66":[-999,999],"67":[-999,999],"128":[-999,999],"129":[-999,999],"130":[-999,999],"131":[-999,999],"192":[-999,999],"193":[-999,999],"194":[-999,999],"195":[-999,999],"256":[-999,999],"257":[-999,999],"258":[-999,999],"259":[-999,999],"320":[0,0],"321":[0,0],"322":[0,0],"323":[0,0],"384":[0,0],"385":[0,0],"386":[0,0],"387":[0,0],"448":[0,0],"449":[0,0],"450":[0,0],"451":[0,0]}}};
+const PAPERDOLL_DEPTH = {};

diff --git a/docs/PENDING.md b/docs/PENDING.md
@@ -18,7 +18,7 @@
 ## รอรวมอัปเดต
 
 - [ ] 2026-10-02 — Paperdoll ทดลอง: Novice ถืออาวุธที่สวมจริง + หมวกแสดงบนหัว → ROADMAP (ระบบภาพ)
-- [ ] 2026-10-02 — ท่าโจมตี+สกิล Völva (ชาย/หญิง) • ท่าเดิน Class 1 ครบ 6 Class (ชาย/หญิง) • ภาพถืออาวุธในภาพ: Einherjar (เดิน+ตี), Trickster หญิง (เดิน+ตี+สกิล), Trickster ชาย (เดิน+ตี+สกิล — ติดตั้งท่าเดินแล้ว), Völva ชาย/หญิง (เดิน+ตี+สกิล), Berserker ชาย/หญิง (เดิน+ตี+สกิล), Einherjar หญิง ท่าตีใหม่, Runecaster ชาย/หญิง (เดิน+ตี+สกิล), Wildhunter ท่ายิง ชาย/หญิง (รอท่าเดิน+สกิล) + อาวุธประจำ Class (ไม่เปลี่ยนตามของที่สวม) → ROADMAP / Codex (ภาพตัวละคร)
+- [ ] 2026-10-02 — ท่าโจมตี+สกิล Völva (ชาย/หญิง) • ท่าเดิน Class 1 ครบ 6 Class (ชาย/หญิง) • ภาพถืออาวุธในภาพ: Einherjar (เดิน+ตี), Trickster หญิง (เดิน+ตี+สกิล), Trickster ชาย (เดิน+ตี+สกิล — ติดตั้งท่าเดินแล้ว), Völva ชาย/หญิง (เดิน+ตี+สกิล), Berserker ชาย/หญิง (เดิน+ตี+สกิล), Einherjar หญิง ท่าตีใหม่, Runecaster ชาย/หญิง (เดิน+ตี+สกิล), Wildhunter ชาย/หญิง (เดิน+ยิง รอสกิล) + อาวุธประจำ Class (ไม่เปลี่ยนตามของที่สวม) → ROADMAP / Codex (ภาพตัวละคร)
 
 <!-- รูปแบบ: - [ ] วันที่ — เปลี่ยนอะไรในเกม → กระทบ Codex / GAME_REFERENCE / ... -->
 
